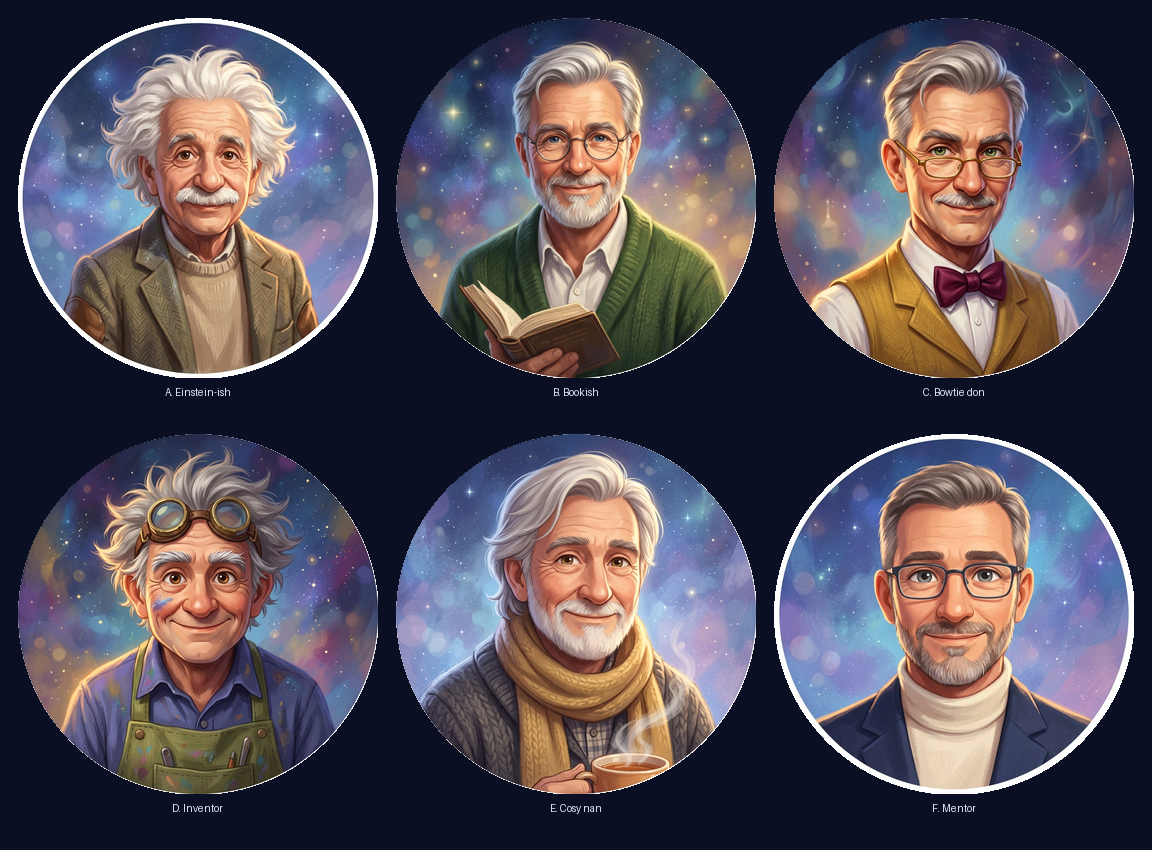
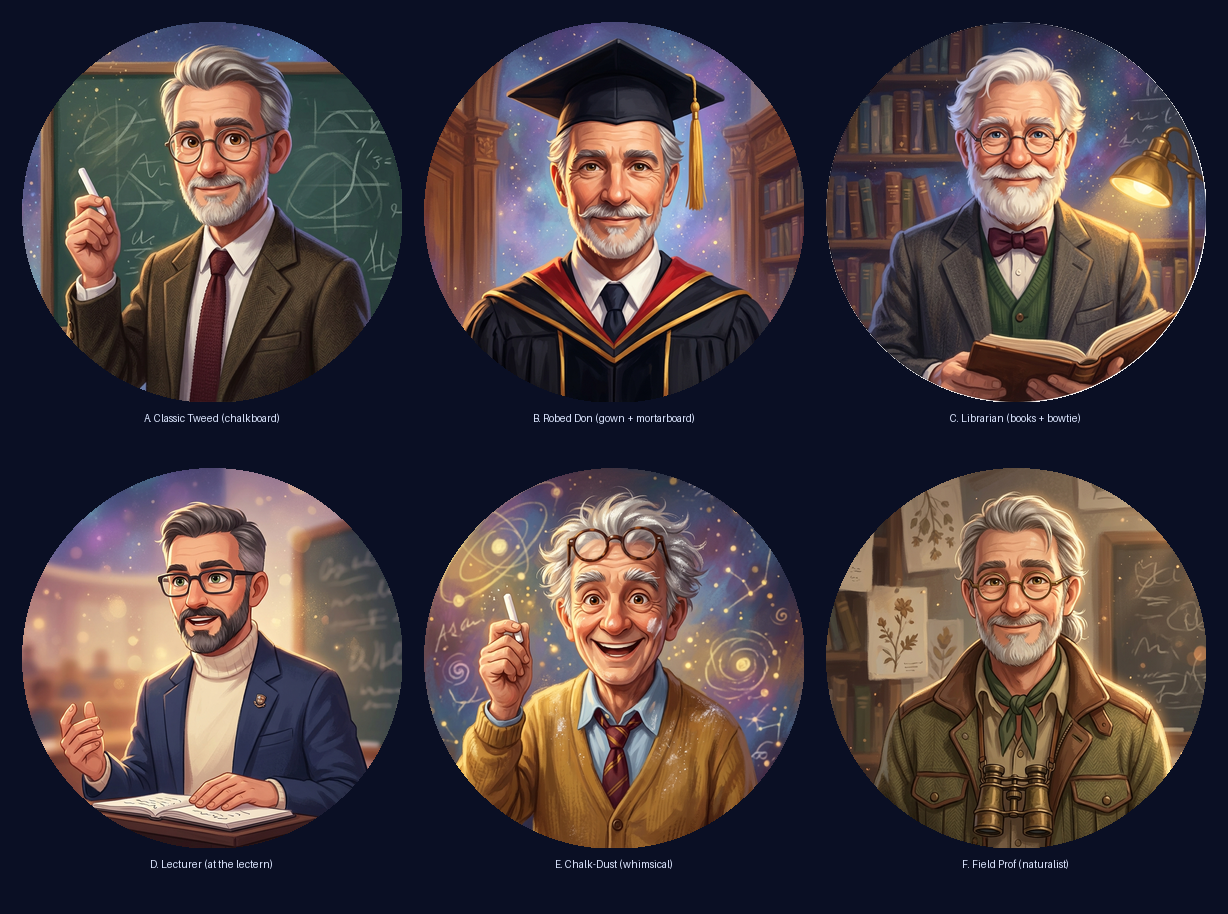
auto-commit for 0a4f70c7-3783-453e-a481-dd2e48381604

diff --git a/backend/generate_prof_alternatives.py b/backend/generate_prof_alternatives.py
@@ -1,11 +1,10 @@
 """
-One-shot generator for "Ask the Prof" mature-professor character
-alternatives. Painterly storybook (Pixar/Ghibli) style, headshot
-composition, 6 distinct personas so the user can pick the favourite
-before we wire it into the launcher.
+Regen v2 — "Ask the Prof" mature-professor character alternatives.
 
-Outputs to /app/frontend/public/prof-alternatives/prof-{slug}.png
-(public/ so we can preview them via Pillow grid + browser).
+v1 read as "kindly grandads", not "PROFESSORS". v2 dials up explicit
+academic context: chalkboards, gowns, lecterns, books, pointers,
+mortarboards, lecture-hall lighting. Same painterly Pixar/Ghibli
+warmth but with unmistakable professor signifiers.
 
 Usage:
     cd /app/backend && python generate_prof_alternatives.py
@@ -28,66 +27,98 @@ OUT_DIR.mkdir(parents=True, exist_ok=True)
 MODEL = "gemini-3.1-flash-image-preview"
 
 STYLE = (
-    " Painterly storybook illustration in the warm style of Pixar / Studio "
-    "Ghibli character art. Soft brushwork, gentle directional lighting, "
-    "warm rim-light, kind expressive eyes, slight smile, friendly inviting "
-    "atmosphere. Circular headshot composition — face and shoulders fill "
-    "the frame, centered. Painterly background of soft cosmic blues and "
-    "violets with subtle bokeh / starlight (NOT photorealistic, NOT 3D, "
-    "NOT line-art, NOT flat vector). Square 1024×1024 canvas designed to "
-    "be cropped to a circle for an app avatar. No text, no letters, no "
-    "logos, no watermark. Single character only, no other people."
+    " Painterly storybook character illustration in the warm style of "
+    "Pixar / Studio Ghibli concept art. Soft brushwork, warm rim-lighting, "
+    "kind expressive eyes, slight smile, friendly approachable atmosphere. "
+    "Portrait-orientation headshot composition — head, shoulders, and "
+    "upper chest fill the frame, centered, character facing camera. "
+    "Painterly background of soft cosmic blues and violets with a subtle "
+    "bokeh of golden chalk-dust starlight (NOT photorealistic, NOT 3D, "
+    "NOT line-art, NOT flat vector). Square 1024×1024 canvas designed "
+    "to be cropped into a circular app avatar. No legible text or "
+    "letters anywhere (any chalkboard markings are abstract painterly "
+    "scribbles, not real words). No logos, no watermark, no signature, "
+    "single character only."
 )
 
 PROFS = {
-    "einstein": (
-        "A kindly mature male professor in his late 60s with a great mane "
-        "of wild fluffy white hair, soft bushy white moustache, warm "
-        "twinkling brown eyes, gentle grandfather smile, wearing a rumpled "
-        "tweed jacket with leather elbow patches over a soft beige knit "
-        "sweater. Loose painterly brushstrokes, a hint of chalk dust on "
-        "his collar."
+    # Classic stereotype: tweed + chalkboard + pointer
+    "classic": (
+        "An unmistakable classic university professor, a kindly mature "
+        "man in his early 60s with neatly combed grey hair greying at "
+        "the temples, a tidy short grey beard, warm intelligent brown "
+        "eyes behind round wire-rim spectacles, gentle scholarly smile. "
+        "Wearing a classic dark-brown TWEED JACKET with prominent LEATHER "
+        "ELBOW PATCHES over a crisp white shirt and a maroon knit tie. "
+        "Behind him a large dark-green CHALKBOARD covered in abstract "
+        "painterly mathematical scribbles and diagrams (no real letters). "
+        "Holding a piece of WHITE CHALK in his right hand, mid-gesture as "
+        "if explaining a concept. Unmistakable professor."
     ),
-    "bookish": (
-        "A warm bookish male professor in his early 60s with neatly combed "
-        "silver hair, well-groomed short silver beard, round wire-rim "
-        "spectacles, soft blue eyes, a contented smile. Wearing a forest-"
-        "green wool cardigan over a white shirt, with an open hardcover "
-        "book held gently in one hand visible at the bottom of the frame. "
-        "Cosy academic warmth."
+    # Robed academic — gown + mortarboard
+    "robed": (
+        "A distinguished mature university professor in his mid-60s with "
+        "swept-back silver hair, a neatly trimmed silver moustache and "
+        "short beard, twinkling kind hazel eyes, a gentle dignified "
+        "smile. Wearing full black ACADEMIC REGALIA — flowing black "
+        "graduation GOWN with red and gold hood trim, a black square "
+        "MORTARBOARD CAP with a gold tassel, over a crisp white shirt "
+        "and dark tie. Background suggests an ornate old university hall "
+        "with warm wood panelling and softly painted bookshelves."
     ),
-    "bowtie": (
-        "A distinguished mature male professor in his mid-60s with neatly "
-        "trimmed swept-back grey hair, a small tidy grey moustache, sharp "
-        "intelligent green eyes, a confident knowing smile. Wearing a deep "
-        "burgundy bowtie, mustard-yellow waistcoat, and crisp white shirt. "
-        "Dignified Oxford-don energy with a playful glint."
+    # Librarian-professor surrounded by towering books
+    "librarian": (
+        "A warm scholarly male professor in his late 60s with soft fluffy "
+        "white hair, a full but neatly groomed white beard, warm twinkling "
+        "blue eyes behind half-moon spectacles balanced on the tip of his "
+        "nose, the kindest reassuring smile. Wearing a charcoal-grey "
+        "tweed three-piece suit with a forest-green knit waistcoat and a "
+        "burgundy bowtie. Tall painterly bookshelves crammed with leather-"
+        "bound books loom warmly behind him, with a single brass desk-"
+        "lamp throwing golden light across his shoulder. Holding an open "
+        "leather-bound tome in his hands at the lower edge of frame."
     ),
-    "inventor": (
-        "A whimsical mature male professor-inventor in his late 60s with "
-        "delightfully messy grey hair sticking up in every direction, "
-        "round brass goggles perched on his forehead, bushy expressive "
-        "white eyebrows, mischievous warm brown eyes, a big delighted "
-        "smile. Wearing a long mossy-green linen apron over a rumpled "
-        "indigo shirt, with a small smudge of cosmic stardust on one "
-        "cheek. Curious and inviting, like he just discovered something."
+    # Lecture-hall professor at the lectern, mid-talk
+    "lecturer": (
+        "A charismatic mature male professor in his late 50s mid-lecture, "
+        "neatly trimmed salt-and-pepper hair, short groomed dark-grey "
+        "beard, sharp intelligent green eyes behind dark-rimmed "
+        "rectangular spectacles, a warm engaged smile as if speaking to "
+        "students. Wearing a navy-blue blazer over a soft cream "
+        "rollneck sweater, with a small academic LAPEL PIN on the "
+        "blazer. Standing at a dark-wood LECTERN, one hand resting on "
+        "an open notebook, the other raised in a teaching gesture. "
+        "Behind him, soft golden lecture-hall light and the silhouette "
+        "of a curved auditorium with warm bokeh."
     ),
-    "cosy": (
-        "A warm cosy male professor in his mid-60s with soft silver hair "
-        "tucked behind his ears, gentle laugh-lines around kind hazel "
-        "eyes, a neat short white beard, the warmest grandfatherly smile. "
-        "Wearing a thick chunky-knit charcoal-grey cardigan and a long "
-        "wrapped mustard scarf, holding a steaming ceramic mug of tea "
-        "visible at the lower edge. Quiet, reassuring, hot-cocoa-by-the-"
-        "fireplace energy."
+    # Whimsical-but-clearly-academic with chalk dust + diagrams
+    "chalk-dust": (
+        "A delightfully whimsical mature male professor in his mid-60s "
+        "with cheerfully messy grey hair flecked with WHITE CHALK DUST, "
+        "expressive bushy white eyebrows, mischievous twinkling brown "
+        "eyes behind round tortoiseshell spectacles pushed up his "
+        "forehead, an enormous delighted smile mid-discovery. Wearing a "
+        "rumpled mustard-yellow CARDIGAN with leather elbow patches "
+        "over a soft sky-blue shirt with a slightly askew burgundy tie. "
+        "A small SMUDGE OF CHALK on one cheek. Behind him a chalkboard "
+        "covered in abstract painterly orbital diagrams, swirls and "
+        "constellations. Holding a stick of chalk between his fingers. "
+        "Professor who genuinely loves teaching."
     ),
-    "mentor": (
-        "A dignified mature male mentor-professor in his late 50s with "
-        "short neatly-trimmed salt-and-pepper hair, a tidy short greying "
-        "beard, thoughtful warm grey-blue eyes behind slim dark-rimmed "
-        "rectangular glasses, a gentle reassuring smile. Wearing a navy "
-        "blazer over a soft cream rollneck. Approachable mentor energy, "
-        "the favourite teacher who actually believed in you."
+    # Field-research professor — botanist / naturalist explorer vibe
+    "field": (
+        "A weathered but warm mature male professor-naturalist in his "
+        "early 60s with neatly tied-back grey-and-silver hair, a "
+        "well-groomed short greying beard, kind crinkle-eyed smile, "
+        "intelligent warm hazel eyes behind small round brass-framed "
+        "spectacles. Wearing a classic explorer's outfit — a worn olive-"
+        "green tweed FIELD JACKET with brown leather trim and many "
+        "pockets, over a soft khaki shirt with a small dark green "
+        "neckerchief. A pair of vintage brass binoculars hung around "
+        "his neck. Background suggests a sun-dappled painterly herbarium "
+        "with hanging botanical sketches and dried specimens, warm "
+        "afternoon light. Unmistakably a learned professor of natural "
+        "history."
     ),
 }
 
@@ -97,7 +128,7 @@ async def generate_one(name: str, prompt: str) -> bool:
     chat = (
         LlmChat(
             api_key=API_KEY,
-            session_id=f"prof-{name}-{uuid.uuid4().hex[:6]}",
+            session_id=f"prof2-{name}-{uuid.uuid4().hex[:6]}",
             system_message="You are a world-class storybook character illustrator. Output images only.",
         )
         .with_model("gemini", MODEL)